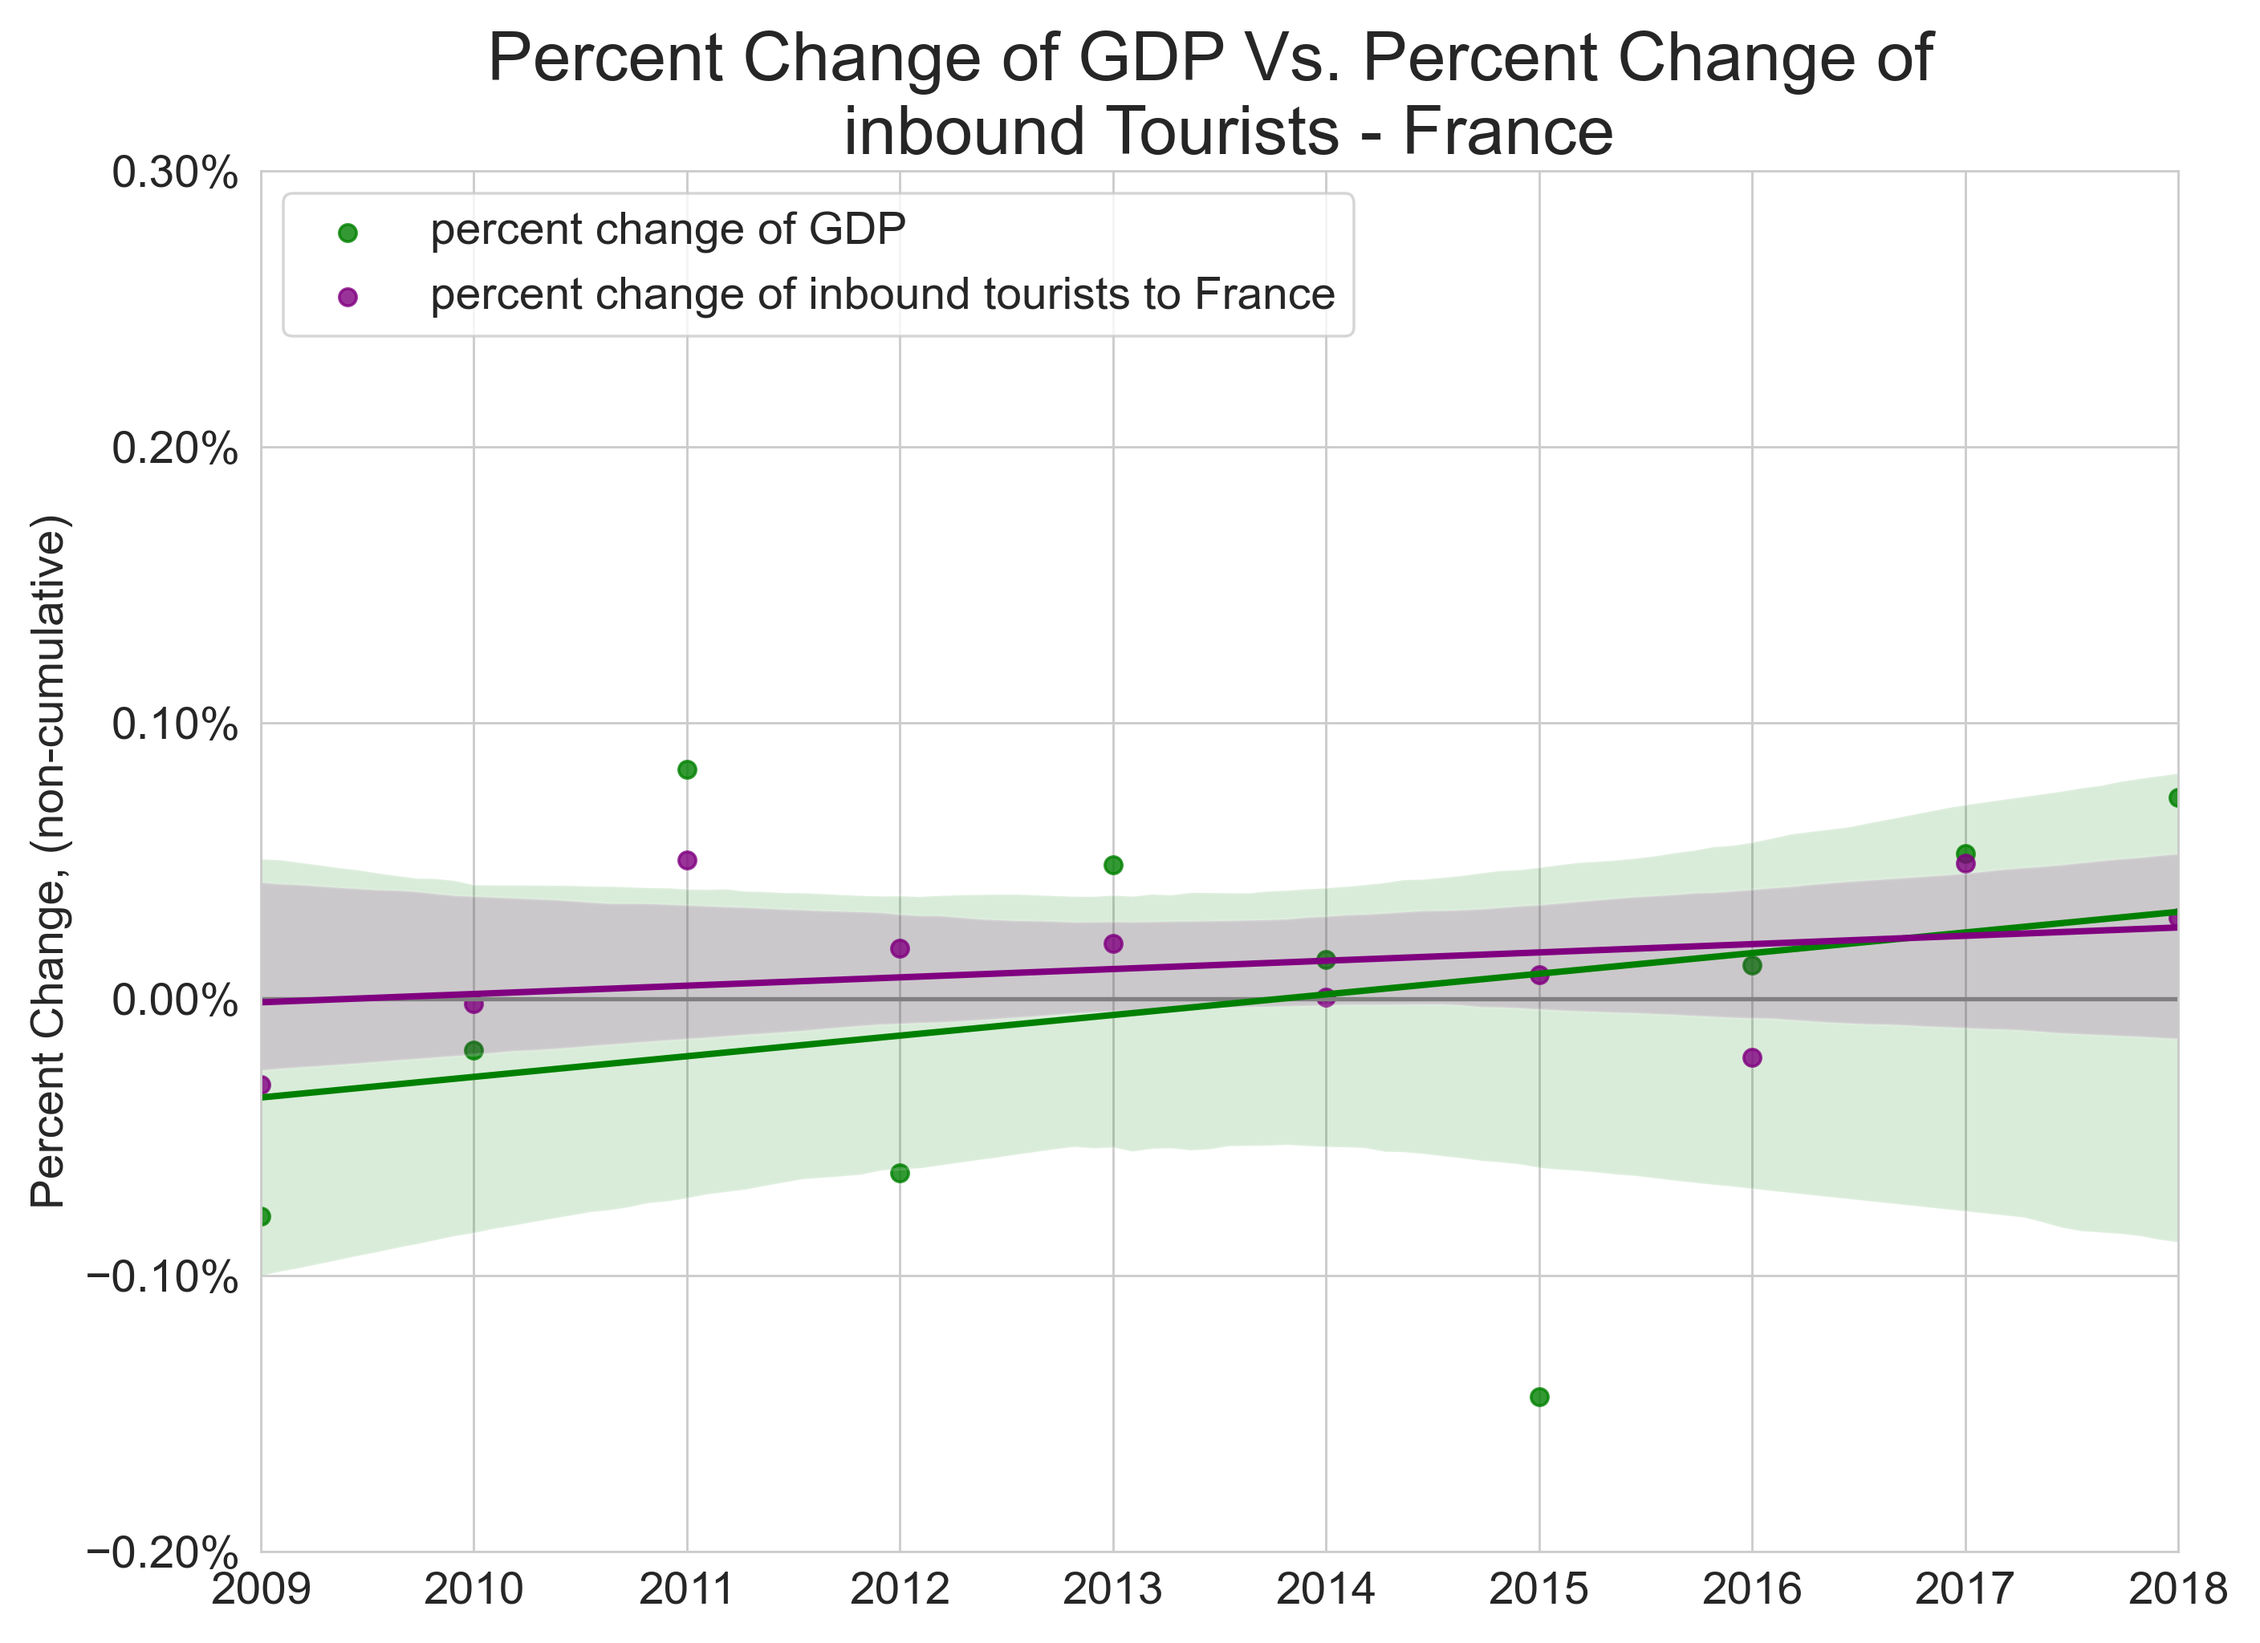
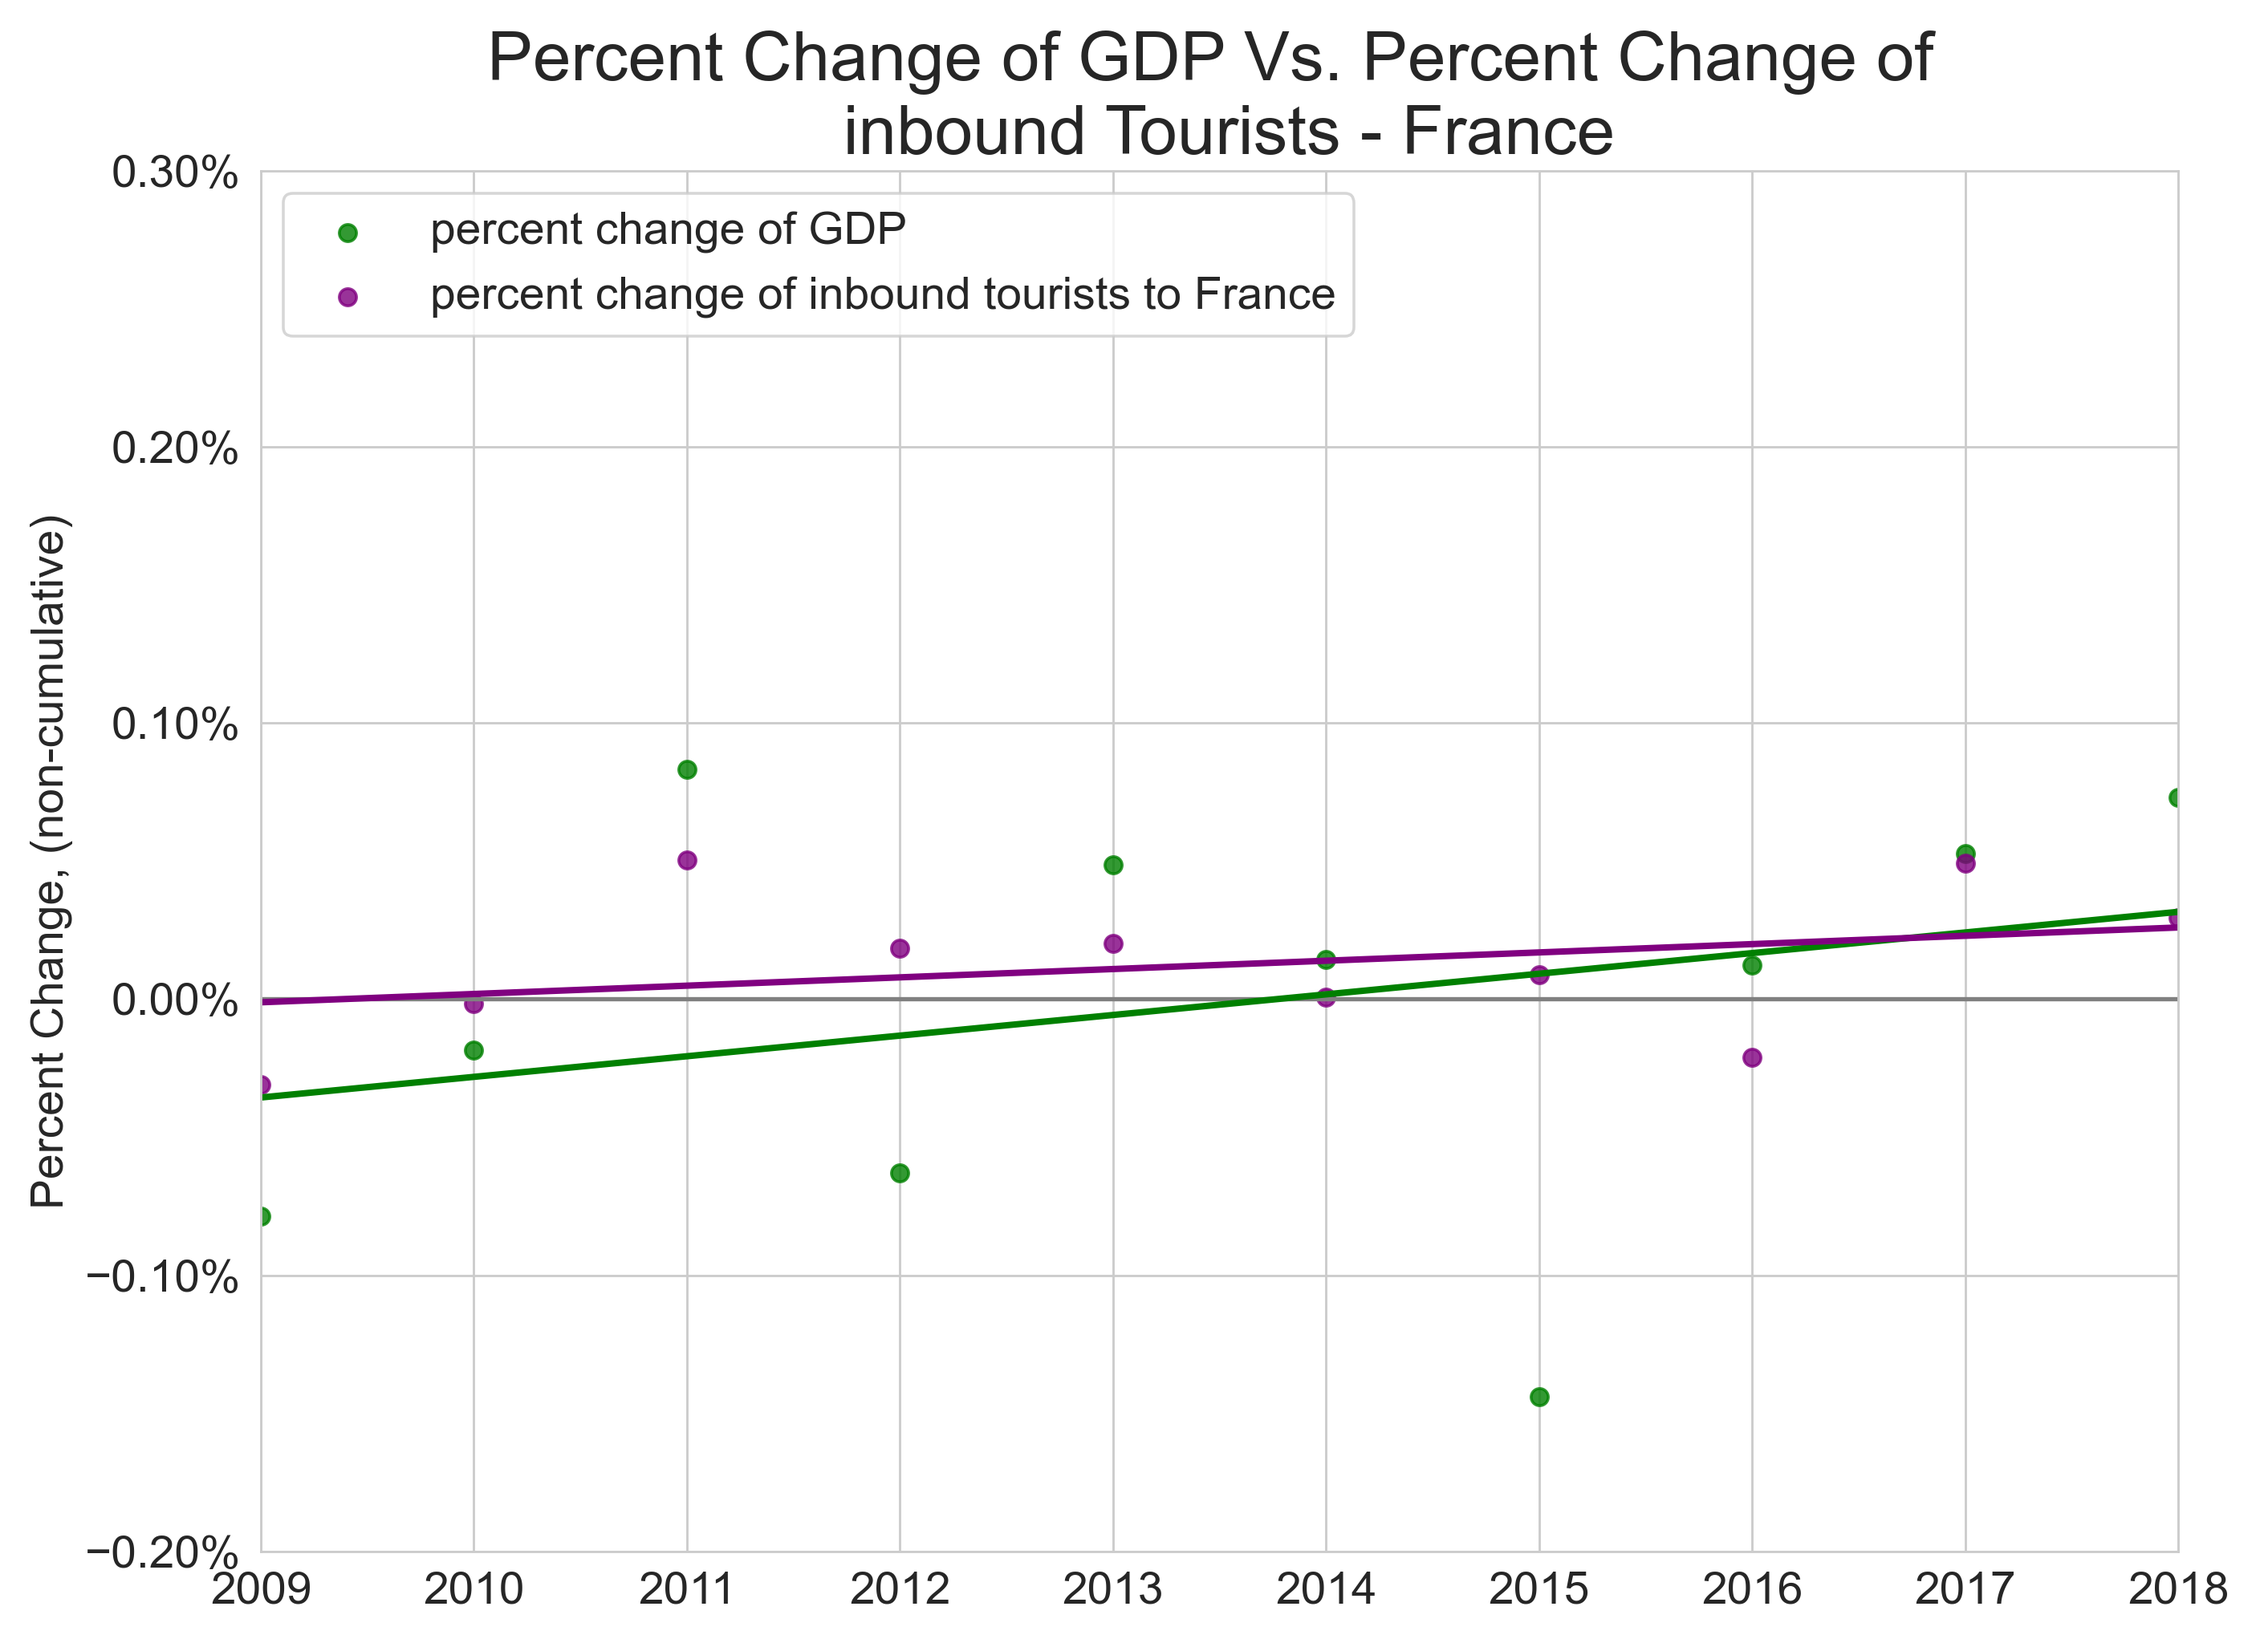
got rid of confidence intervals

Changed region(s): [[0.0938, 0.4688, 0.9688, 0.7812]]

diff --git a/src/capstone1_graphing.py b/src/capstone1_graphing.py
@@ -279,11 +279,11 @@ def regplot_comparison_graph(country, indicator, color, y_lim = (-.2, 0.5), show
     ax.set_ylim(y_lim)
     ax.axhline(y=0, color = 'grey')
 
-    sns.regplot(x= list(range(2008, 2019)), y = gdp_pct_change.loc[country], data = gdp_pct_change, color = "green", label = "percent change of GDP")
+    sns.regplot(x= list(range(2008, 2019)), y = gdp_pct_change.loc[country], ci = None, data = gdp_pct_change, color = "green", label = "percent change of GDP")
     if indicator == "inbound":
-        sns.regplot(x = list(range(2008, 2019)), y = pct_change_in.loc[country], data = pct_change_in, color = color, label = f"percent change of {indicator} tourists to {country}")
+        sns.regplot(x = list(range(2008, 2019)), y = pct_change_in.loc[country], ci = None, data = pct_change_in, color = color, label = f"percent change of {indicator} tourists to {country}")
     elif indicator == "outbound":
-        sns.regplot(x = list(range(2008, 2019)), y = pct_change_out.loc[country], data = pct_change_out, color = color, label = f"percent change of {indicator} tourists from {country}")
+        sns.regplot(x = list(range(2008, 2019)), y = pct_change_out.loc[country], ci = None, data = pct_change_out, color = color, label = f"percent change of {indicator} tourists from {country}")
     ax.yaxis.set_major_formatter(ticker.PercentFormatter())
 
     # plt.annotate("Potential GDP reporting issue, 2015", xy = (6, -0.02), xytext = (6, -0.08), fontsize = 12, arrowprops =dict(facecolor ='green'))
@@ -335,7 +335,7 @@ def line_comparison_graph(country, indicator, color, y_lim = (-.2, 0.5), show = 
         ax.plot(gdp_pct_change.columns, pct_change_in.loc[country], color = color, label = f"percent change of inbound tourists to {country}")
     
     elif indicator == "outbound":
-         ax.plot(gdp_pct_change.columns, pct_change_in.loc[country], color = color, label = f"percent change of outbound tourists from {country}")
+         ax.plot(gdp_pct_change.columns, pct_change_out.loc[country], color = color, label = f"percent change of outbound tourists from {country}")
         
     ax.yaxis.set_major_formatter(ticker.PercentFormatter())
     
@@ -369,15 +369,15 @@ if __name__ == '__main__':
     # print (tourists_in_from_demand_graph(show=False, save = True))
     # print (tourists_in_from_supply_graph(show = False, save = True))
 
-    # regplot_comparison_graph('Iceland', 'inbound', 'midnightblue', y_lim=(-.2, 0.5), show = False, save = True)
-    # print(regplot_comparison_graph('Slovenia', 'inbound', 'indigo', y_lim=(-.2, 0.3), show = False, save = True))
-    # print(regplot_comparison_graph('France', 'inbound', 'purple', y_lim=(-.2, 0.3), show = False, save = True))
+    print (regplot_comparison_graph('Iceland', 'inbound', 'midnightblue', y_lim=(-.2, 0.5), show = False, save = True))
+    print(regplot_comparison_graph('Slovenia', 'inbound', 'indigo', y_lim=(-.2, 0.3), show = False, save = True))
+    print(regplot_comparison_graph('France', 'inbound', 'purple', y_lim=(-.2, 0.3), show = False, save = True))
     print (regplot_comparison_graph('Switzerland', 'inbound', 'slateblue', y_lim=(-.2, 0.3), show = False, save = True))
     
-    # print (regplot_comparison_graph('Iceland', 'outbound', 'orangered', y_lim=(-.2, 0.3), show = False, save = True))
-    # print (regplot_comparison_graph('Malta', 'outbound', 'tomato', y_lim=(-.2, 0.3), show = False, save = True))
-    # print (regplot_comparison_graph('Latvia', 'outbound', 'coral', y_lim=(-.2, 0.3), show = False, save = True))
-    # print (regplot_comparison_graph('Romania', 'outbound', 'crimson', y_lim=(-.2, 0.3), show = False, save = True))
+    print (regplot_comparison_graph('Iceland', 'outbound', 'orangered', y_lim=(-.2, 0.3), show = False, save = True))
+    print (regplot_comparison_graph('Malta', 'outbound', 'tomato', y_lim=(-.2, 0.3), show = False, save = True))
+    print (regplot_comparison_graph('Latvia', 'outbound', 'coral', y_lim=(-.2, 0.3), show = False, save = True))
+    print (regplot_comparison_graph('Romania', 'outbound', 'crimson', y_lim=(-.2, 0.3), show = False, save = True))
 
     # print (line_comparison_graph('France', 'inbound', 'purple', y_lim=(-.2, 0.3), show = False, save = True))
     # print (line_comparison_graph('Slovenia', 'inbound', 'indigo', y_lim=(-.2, 0.3), show = False, save = True))
